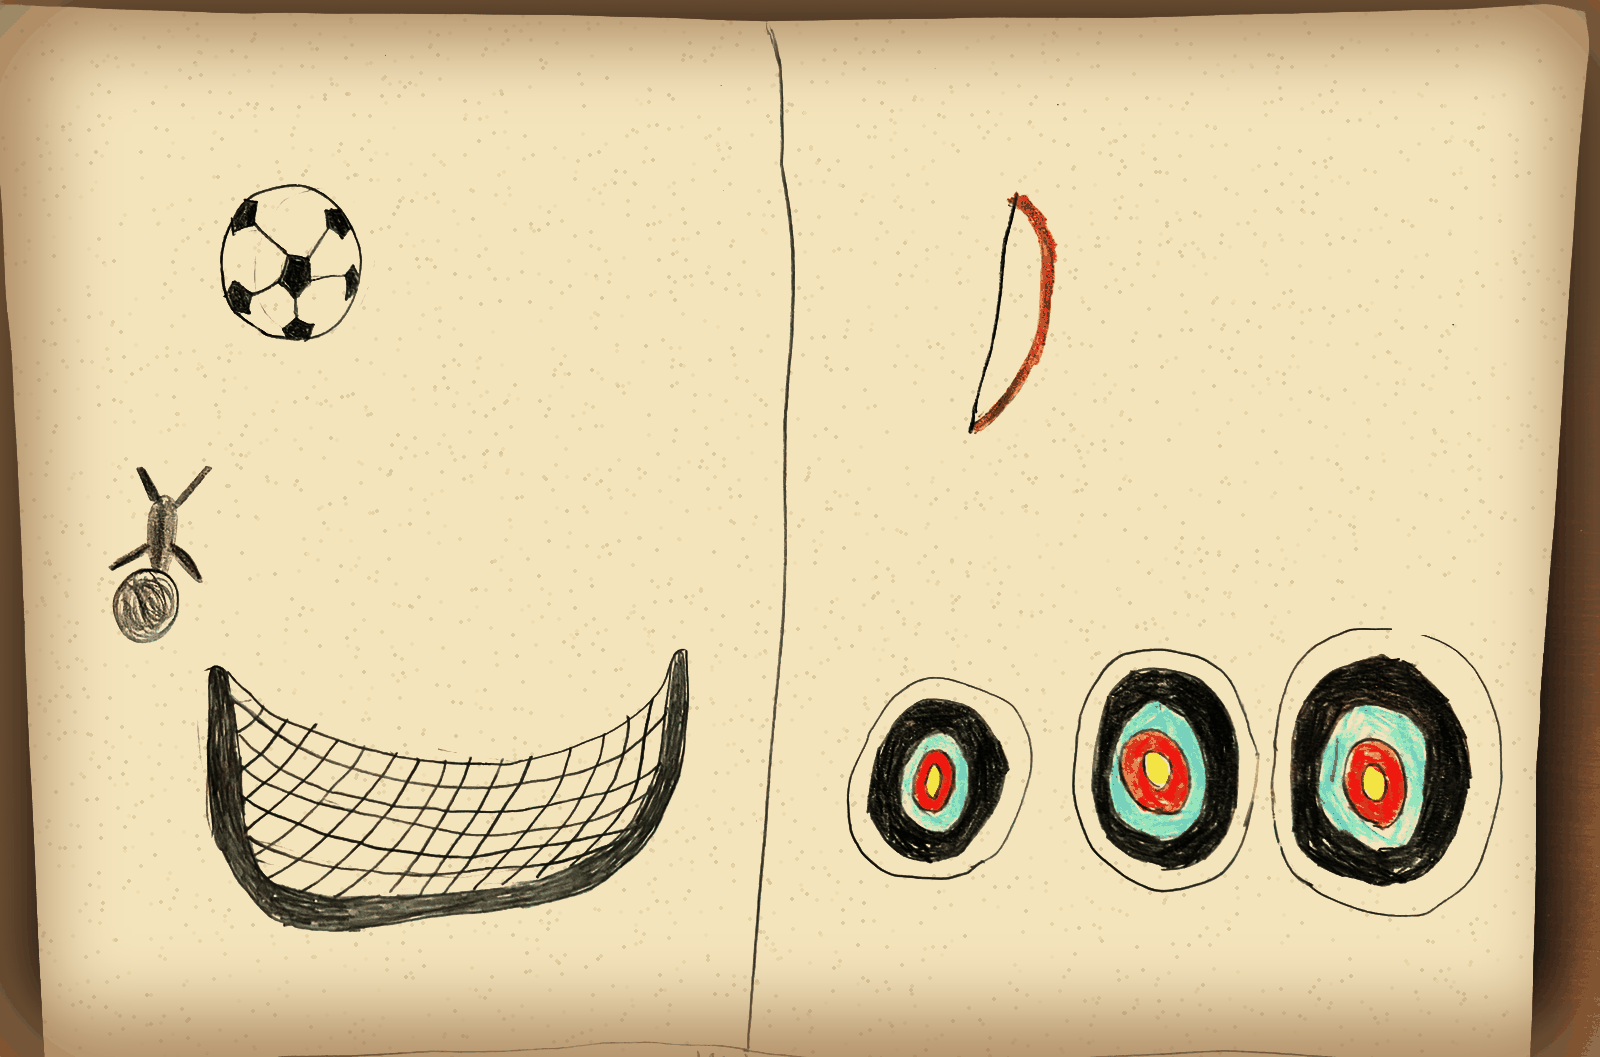
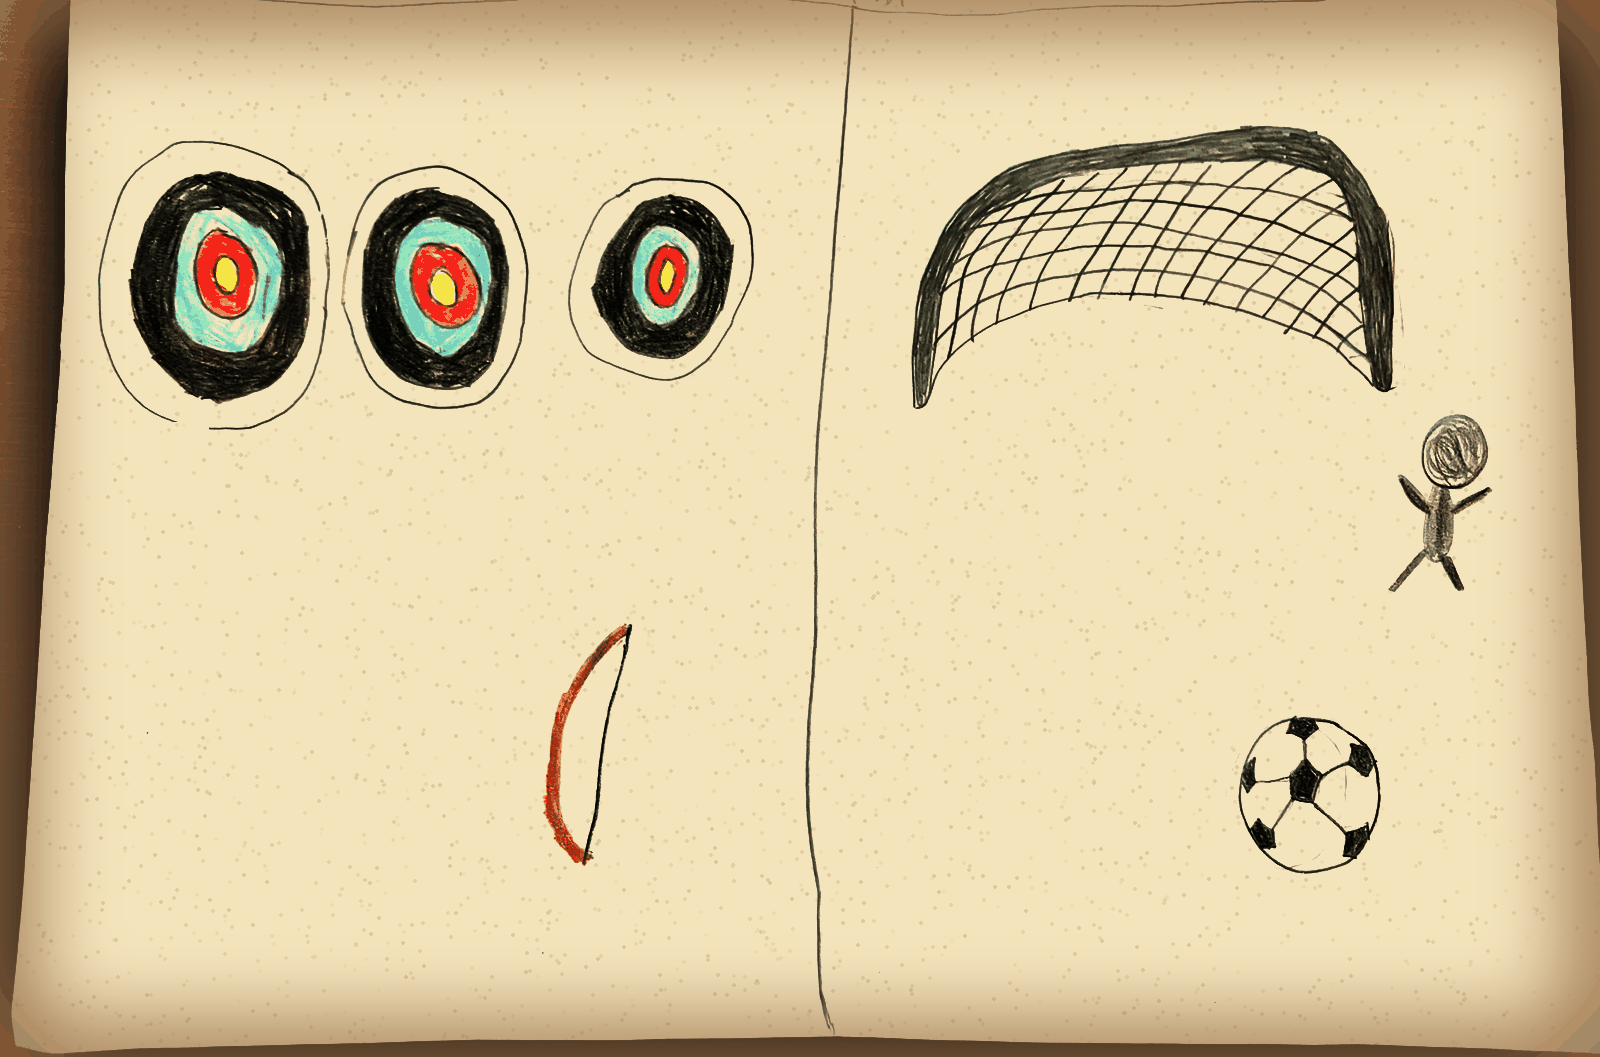
Stadium picture turned the right way up; the soccer ball flies half as fast
Claude-Session: https://claude.ai/code/session_01BBNJnnKDsoYXa5MRnbbGYn

diff --git a/index.html b/index.html
@@ -6,7 +6,7 @@
   <title>Witches and Wizards</title>
   <link rel="preconnect" href="https://fonts.googleapis.com">
   <link href="https://fonts.googleapis.com/css2?family=Grandstander:wght@400;700&display=swap" rel="stylesheet">
-  <link rel="stylesheet" href="css/style.css?v=45">
+  <link rel="stylesheet" href="css/style.css?v=46">
 </head>
 <body>
 
@@ -72,7 +72,7 @@
     <button id="btn-level" class="status-item level-button" title="Click to see what you need for the next Level"><b id="status-level"></b></button>
     <span class="status-item" title="Adventure Points">Adventure <span id="status-points" class="stars"></span></span>
     <span class="status-item" title="Crystals">💎 <b id="status-crystals"></b></span>
-    <span class="status-item" title="Gems"><img class="gem-icon" src="art/processed/extra_gem.png?v=45" alt="Gems"> <b id="status-gems"></b></span>
+    <span class="status-item" title="Gems"><img class="gem-icon" src="art/processed/extra_gem.png?v=46" alt="Gems"> <b id="status-gems"></b></span>
     <span class="status-item" title="Chore Points">🧹 <b id="status-chores"></b></span>
     <span class="status-item" title="Bonding Points: take care of your pet">🐾 <b id="status-bonding"></b></span>
     <span id="status-luck" class="status-item" title="Luck Potion: you are luckier until this runs out" hidden></span>
@@ -262,62 +262,62 @@
   <p id="placement-info" class="placement-info" hidden></p>
 
   <!-- Game content. Every data file adds to GAME_DATA. -->
-  <script>var GAME_DATA = {}; var GAME_VERSION = "45"; // tools/bump_version.py changes this and every ?v= so browsers load fresh files</script>
-  <script src="data/characters.js?v=45"></script>
-  <script src="data/places.js?v=45"></script>
-  <script src="data/paths.js?v=45"></script>
-  <script src="data/items.js?v=45"></script>
-  <script src="data/fish.js?v=45"></script>
-  <script src="data/digging.js?v=45"></script>
-  <script src="data/chores.js?v=45"></script>
-  <script src="data/mining.js?v=45"></script>
-<script src="data/hunger.js?v=45"></script>
-  <script src="data/dance.js?v=45"></script>
-  <script src="data/orchard.js?v=45"></script>
-  <script src="data/spells.js?v=45"></script>
-  <script src="data/unicorns.js?v=45"></script>
-  <script src="data/trading.js?v=45"></script>
-    <script src="data/troll.js?v=45"></script>
-  <script src="data/levels.js?v=45"></script>
-  <script src="data/luck.js?v=45"></script>
-  <script src="data/bonding.js?v=45"></script>
-  <script src="data/pearls.js?v=45"></script>
-  <script src="data/sports.js?v=45"></script>
-  <script src="data/pixie.js?v=45"></script>
-  <script src="data/supplies.js?v=45"></script>
-  <script src="data/honey.js?v=45"></script>
-  <script src="data/adventures.js?v=45"></script>
-  <script src="data/music.js?v=45"></script>
-  <script src="data/furniture.js?v=45"></script>
-  <script src="data/furniture_art.js?v=45"></script>
-  <script src="data/drawn.js?v=45"></script>
+  <script>var GAME_DATA = {}; var GAME_VERSION = "46"; // tools/bump_version.py changes this and every ?v= so browsers load fresh files</script>
+  <script src="data/characters.js?v=46"></script>
+  <script src="data/places.js?v=46"></script>
+  <script src="data/paths.js?v=46"></script>
+  <script src="data/items.js?v=46"></script>
+  <script src="data/fish.js?v=46"></script>
+  <script src="data/digging.js?v=46"></script>
+  <script src="data/chores.js?v=46"></script>
+  <script src="data/mining.js?v=46"></script>
+<script src="data/hunger.js?v=46"></script>
+  <script src="data/dance.js?v=46"></script>
+  <script src="data/orchard.js?v=46"></script>
+  <script src="data/spells.js?v=46"></script>
+  <script src="data/unicorns.js?v=46"></script>
+  <script src="data/trading.js?v=46"></script>
+    <script src="data/troll.js?v=46"></script>
+  <script src="data/levels.js?v=46"></script>
+  <script src="data/luck.js?v=46"></script>
+  <script src="data/bonding.js?v=46"></script>
+  <script src="data/pearls.js?v=46"></script>
+  <script src="data/sports.js?v=46"></script>
+  <script src="data/pixie.js?v=46"></script>
+  <script src="data/supplies.js?v=46"></script>
+  <script src="data/honey.js?v=46"></script>
+  <script src="data/adventures.js?v=46"></script>
+  <script src="data/music.js?v=46"></script>
+  <script src="data/furniture.js?v=46"></script>
+  <script src="data/furniture_art.js?v=46"></script>
+  <script src="data/drawn.js?v=46"></script>
 
   <!-- Game code -->
-  <script src="js/save.js?v=45"></script>
-  <script src="js/world.js?v=45"></script>
-  <script src="js/items.js?v=45"></script>
-  <script src="js/fishing.js?v=45"></script>
-  <script src="js/digging.js?v=45"></script>
-  <script src="js/chores.js?v=45"></script>
-  <script src="js/mining.js?v=45"></script>
-  <script src="js/troll.js?v=45"></script>
-<script src="js/hunger.js?v=45"></script>
-  <script src="js/luck.js?v=45"></script>
-  <script src="js/levels.js?v=45"></script>
-  <script src="js/bonding.js?v=45"></script>
-  <script src="js/cafe.js?v=45"></script>
-  <script src="js/pearls.js?v=45"></script>
-  <script src="js/sports.js?v=45"></script>
-  <script src="js/pixie.js?v=45"></script>
-  <script src="js/honey.js?v=45"></script>
-  <script src="js/music.js?v=45"></script>
-  <script src="js/dance.js?v=45"></script>
-  <script src="js/orchard.js?v=45"></script>
-  <script src="js/spells.js?v=45"></script>
-  <script src="js/unicorns.js?v=45"></script>
-  <script src="js/trading.js?v=45"></script>
-    <script src="js/storage.js?v=45"></script>
-  <script src="js/furniture.js?v=45"></script>
-  <script src="js/game.js?v=45"></script>
+  <script src="js/save.js?v=46"></script>
+  <script src="js/world.js?v=46"></script>
+  <script src="js/items.js?v=46"></script>
+  <script src="js/fishing.js?v=46"></script>
+  <script src="js/digging.js?v=46"></script>
+  <script src="js/chores.js?v=46"></script>
+  <script src="js/mining.js?v=46"></script>
+  <script src="js/troll.js?v=46"></script>
+<script src="js/hunger.js?v=46"></script>
+  <script src="js/luck.js?v=46"></script>
+  <script src="js/levels.js?v=46"></script>
+  <script src="js/bonding.js?v=46"></script>
+  <script src="js/cafe.js?v=46"></script>
+  <script src="js/pearls.js?v=46"></script>
+  <script src="js/sports.js?v=46"></script>
+  <script src="js/pixie.js?v=46"></script>
+  <script src="js/honey.js?v=46"></script>
+  <script src="js/music.js?v=46"></script>
+  <script src="js/dance.js?v=46"></script>
+  <script src="js/orchard.js?v=46"></script>
+  <script src="js/spells.js?v=46"></script>
+  <script src="js/unicorns.js?v=46"></script>
+  <script src="js/trading.js?v=46"></script>
+    <script src="js/storage.js?v=46"></script>
+  <script src="js/furniture.js?v=46"></script>
+  <script src="js/game.js?v=46"></script>
 </body>
 </html>

diff --git a/catalog.html b/catalog.html
@@ -318,35 +318,35 @@
   </div>
   </main>
 
-  <script>var GAME_DATA = {}; var GAME_VERSION = "45"; // tools/bump_version.py changes this and every ?v= so browsers load fresh files</script>
-  <script src="data/characters.js?v=45"></script>
-  <script src="data/places.js?v=45"></script>
-  <script src="data/items.js?v=45"></script>
-  <script src="data/ideas.js?v=45"></script>
-  <script src="data/fish.js?v=45"></script>
-  <script src="data/digging.js?v=45"></script>
-  <script src="data/mining.js?v=45"></script>
-  <script src="data/troll.js?v=45"></script>
-  <script src="data/levels.js?v=45"></script>
-  <script src="data/luck.js?v=45"></script>
-  <script src="data/bonding.js?v=45"></script>
-  <script src="data/pearls.js?v=45"></script>
-  <script src="data/sports.js?v=45"></script>
-  <script src="data/pixie.js?v=45"></script>
-  <script src="data/supplies.js?v=45"></script>
-  <script src="data/honey.js?v=45"></script>
-  <script src="data/gameplay.js?v=45"></script>
-  <script src="data/extras.js?v=45"></script>
-  <script src="data/hunger.js?v=45"></script>
-  <script src="data/orchard.js?v=45"></script>
-  <script src="data/dance.js?v=45"></script>
-  <script src="data/trading.js?v=45"></script>
-  <script src="data/unicorns.js?v=45"></script>
-  <script src="data/spells.js?v=45"></script>
-  <script src="data/furniture.js?v=45"></script>
-  <script src="data/next_steps.js?v=45"></script>
-  <script src="data/logic.js?v=45"></script>
-  <script src="data/drawn.js?v=45"></script>
+  <script>var GAME_DATA = {}; var GAME_VERSION = "46"; // tools/bump_version.py changes this and every ?v= so browsers load fresh files</script>
+  <script src="data/characters.js?v=46"></script>
+  <script src="data/places.js?v=46"></script>
+  <script src="data/items.js?v=46"></script>
+  <script src="data/ideas.js?v=46"></script>
+  <script src="data/fish.js?v=46"></script>
+  <script src="data/digging.js?v=46"></script>
+  <script src="data/mining.js?v=46"></script>
+  <script src="data/troll.js?v=46"></script>
+  <script src="data/levels.js?v=46"></script>
+  <script src="data/luck.js?v=46"></script>
+  <script src="data/bonding.js?v=46"></script>
+  <script src="data/pearls.js?v=46"></script>
+  <script src="data/sports.js?v=46"></script>
+  <script src="data/pixie.js?v=46"></script>
+  <script src="data/supplies.js?v=46"></script>
+  <script src="data/honey.js?v=46"></script>
+  <script src="data/gameplay.js?v=46"></script>
+  <script src="data/extras.js?v=46"></script>
+  <script src="data/hunger.js?v=46"></script>
+  <script src="data/orchard.js?v=46"></script>
+  <script src="data/dance.js?v=46"></script>
+  <script src="data/trading.js?v=46"></script>
+  <script src="data/unicorns.js?v=46"></script>
+  <script src="data/spells.js?v=46"></script>
+  <script src="data/furniture.js?v=46"></script>
+  <script src="data/next_steps.js?v=46"></script>
+  <script src="data/logic.js?v=46"></script>
+  <script src="data/drawn.js?v=46"></script>
   <script>
     // Builds the catalog straight from the game's data files, so it never goes out of date.
     const drawn = GAME_DATA.drawn || [];

diff --git a/data/places.js b/data/places.js
@@ -70,8 +70,8 @@ GAME_DATA.places = [
     "description": "Sports class is outside today! Go to the Stadium to learn archery and soccer." },
   { "id": "stadium", "name": "Stadium", "type": "place", "in": "sports_classroom", "x": 50, "y": 50,
     "description": "Archery targets and a soccer goal. Pass a test to earn each one as a Skill." },
-  { "id": "archery", "name": "Archery", "type": "archery", "in": "stadium", "x": 73, "y": 62 },
-  { "id": "soccer", "name": "Soccer", "type": "soccer", "in": "stadium", "x": 28, "y": 65 },
+  { "id": "archery", "name": "Archery", "type": "archery", "in": "stadium", "x": 26, "y": 42 },
+  { "id": "soccer", "name": "Soccer", "type": "soccer", "in": "stadium", "x": 72, "y": 40 },
   { "id": "aquatic_classroom", "name": "Aquatic Classroom", "type": "classroom", "teaches": "Swimming and diving, and the animals of the lake.", "in": "school", "x": 84, "y": 50 },
   { "id": "animals_classroom", "name": "Animal Care Classroom", "type": "classroom", "teaches": "Looking after your pet: walking, training and grooming.", "in": "school", "x": 17, "y": 87 },
   { "id": "art_classroom", "name": "Art Classroom", "type": "classroom", "teaches": "Drawing and painting, like the girls do for this game!", "in": "school", "x": 52, "y": 86 },

diff --git a/data/sports.js b/data/sports.js
@@ -16,6 +16,8 @@
 //   goalieWidth      how wide the goalie is, in percent of the goal (a kick this
 //                    close to the goalie's middle is saved)
 //   goalieSeconds    how long the goalie takes to pace to the next spot
+//   ballSeconds      how long the ball takes to fly to the goal (slower is harder:
+//                    the goalie has longer to wander into the way; Scott, 2026-10-13)
 GAME_DATA.sports = {
   "archery": {
     "skill": "archery", "name": "Archery", "arrows": 5, "passPoints": 15,
@@ -30,6 +32,6 @@ GAME_DATA.sports = {
   },
   "soccer": {
     "skill": "soccer", "name": "Soccer", "kicks": 5, "goalsNeeded": 3,
-    "goalieWidth": 20, "goalieSeconds": 0.9
+    "goalieWidth": 20, "goalieSeconds": 0.9, "ballSeconds": 0.9
   }
 };

diff --git a/js/sports.js b/js/sports.js
@@ -147,6 +147,7 @@ function openSoccer() {
   goalie.style.transitionDuration = rules.goalieSeconds + "s";
   goal.appendChild(goalie);
   const ball = sportPicture("sport_ball", "⚽", "soccer-ball");
+  ball.style.transitionDuration = rules.ballSeconds + "s";
   const score = document.createElement("p");
   score.className = "sport-score";
   field.append(goal, ball);
@@ -200,7 +201,7 @@ function kickBall(event, field, ball, goalie, game, done) {
       game.kicking = false;
       done();
     }, 700);
-  }, 450); // how long the ball takes to fly (same as .soccer-ball in css/style.css)
+  }, GAME_DATA.sports.soccer.ballSeconds * 1000); // when the ball reaches the goal
 }
 
 function showSoccerScore(score, game) {

diff --git a/css/style.css b/css/style.css
@@ -1100,7 +1100,7 @@ body.holding-apple, body.holding-apple * {
   width: 7%;
   transform: translate(-50%, -50%);
   pointer-events: none;
-  transition: left 0.45s ease-out, top 0.45s ease-out, width 0.45s ease-out;
+  transition: left 0.9s ease-out, top 0.9s ease-out, width 0.9s ease-out; /* the time is set from data/sports.js */
 }
 .soccer-ball.kicked { width: 4.5%; }
 
